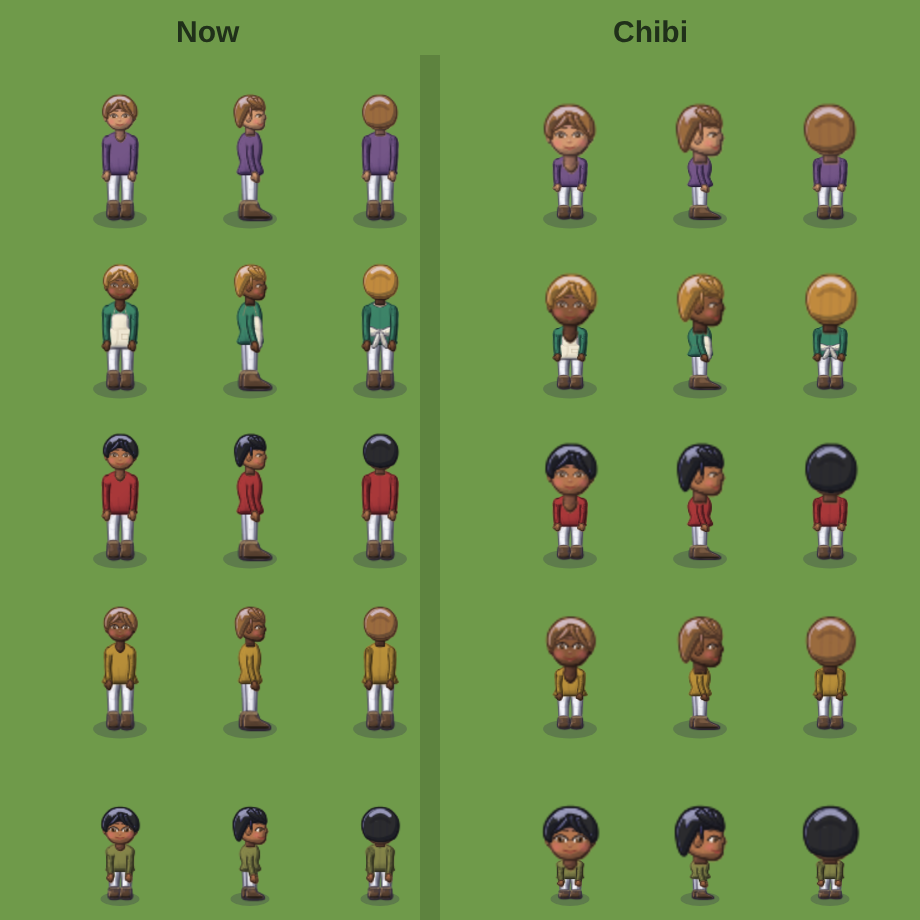
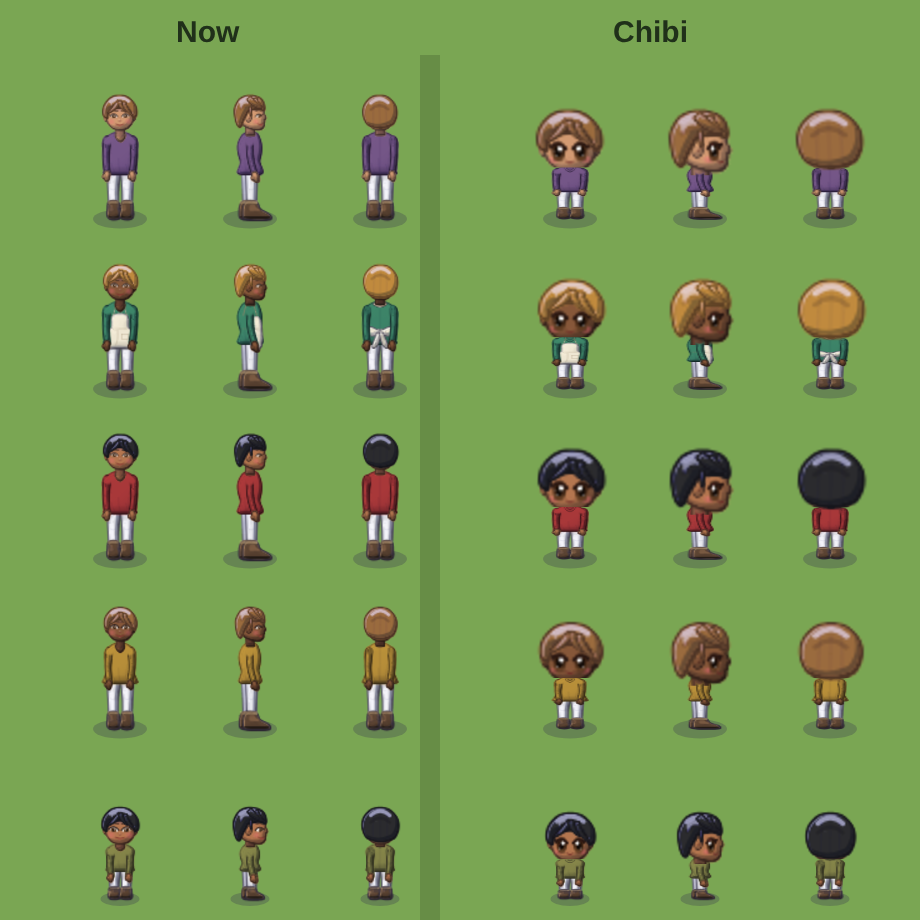
Chibi trial round 2 (still off): bigger head, shorter body, an anime face with big shiny eyes and blush, neck tucked away
Claude-Session: https://claude.ai/code/session_01TpMhZWkaxwFTz3FA8cTz2J

diff --git a/src/art/painters.ts b/src/art/painters.ts
@@ -1901,9 +1901,45 @@ function workPose(kit, dir, sp, T, id) { const G = geo(kit), K = G.K, q = K.ua /
 /* spec: age, skin, hair, hs, beard, shirt, pat, acc, pants, hat, hatCol, hatOn, robe, role, apron, pose, tool, face {dx,dy}, status, dress, hold, mourning, wave, inv */
 function dollDir(sp) { const f = sp.face || { dx: 0, dy: 1 }; return f.dy > 0 && !f.dx ? 'front' : f.dy < 0 && !f.dx ? 'back' : 'side'; }
 /* Chibi proportions (a trial): a bigger head on a shorter body, so faces read at a glance. Off by default; ART.chibi.on = true to try it. */
-const CHIBI = { on: false, head: 1.45, body: 0.72, bodyW: 0.95 };
+const CHIBI = { on: false, head: 1.75, headW: 1.08, body: 0.6, bodyW: 1.0, kidHead: 1.32, kidBody: 0.74 };
+/* the chibi face: big shiny eyes, blush, a dot of a nose and a small mouth (front and side; the back has no face) */
+function chibiFaceL(kit, dir, o: any = {}) { const [c, g]: any = frame(); if (dir === 'back') return c;
+  const L = Object.assign({}, LOOK0, o.look || {}), h = hd(kit, dir), { X, hw, hh } = h, side = dir === 'side', ink = '#2a1712', ir = IRIS[L.iris] || IRIS.brown;
+  const eye = (cx, cy, rx, ry, out) => {
+    if (o.blink) { g.strokeStyle = ink; g.lineWidth = 0.28; g.lineCap = 'round'; g.beginPath(); g.arc(cx, cy + ry * 0.35, rx * 0.95, Math.PI * 1.1, Math.PI * 1.9); g.stroke(); return; }
+    const gr = g.createLinearGradient(0, cy - ry, 0, cy + ry); gr.addColorStop(0, ir[1]); gr.addColorStop(0.45, ir[1]); gr.addColorStop(1, ir[0]);
+    g.fillStyle = gr; g.beginPath(); g.ellipse(cx, cy, rx, ry, 0, 0, TAU); g.fill();
+    g.fillStyle = '#140c08'; g.beginPath(); g.ellipse(cx + out * rx * 0.05, cy - ry * 0.02, rx * 0.5, ry * 0.58, 0, 0, TAU); g.fill();
+    g.fillStyle = '#ffffff'; g.beginPath(); g.ellipse(cx - out * rx * 0.28, cy - ry * 0.36, rx * 0.34, ry * 0.3, 0, 0, TAU); g.fill();
+    g.beginPath(); g.arc(cx + out * rx * 0.38, cy + ry * 0.42, rx * 0.15, 0, TAU); g.fill();
+    g.strokeStyle = ink; g.lineCap = 'round'; g.lineWidth = 0.42; g.beginPath(); g.moveTo(cx - out * rx * 1.08, cy - ry * 0.35); g.quadraticCurveTo(cx, cy - ry * 1.38, cx + out * rx * 1.12, cy - ry * 0.5); g.lineTo(cx + out * rx * 1.45, cy - ry * 0.8); g.stroke();   // the lash line, flicked out
+    g.lineWidth = 0.14; g.strokeStyle = 'rgba(60,30,24,.55)'; g.beginPath(); g.moveTo(cx - out * rx * 0.7, cy + ry * 0.98); g.quadraticCurveTo(cx, cy + ry * 1.12, cx + out * rx * 0.75, cy + ry * 0.9); g.stroke(); };
+  const blush = (cx, cy, rx) => { const gr = g.createRadialGradient(cx, cy, 0, cx, cy, rx); gr.addColorStop(0, 'rgba(240,110,120,.55)'); gr.addColorStop(1, 'rgba(240,110,120,0)'); g.fillStyle = gr; g.beginPath(); g.ellipse(cx, cy, rx, rx * 0.6, 0, 0, TAU); g.fill(); };
+  const brow = (cx, cy, w, out) => { g.strokeStyle = 'rgba(70,44,32,.8)'; g.lineWidth = 0.2; g.lineCap = 'round'; g.beginPath(); g.moveTo(cx - out * w, cy + 0.08); g.quadraticCurveTo(cx, cy - 0.22, cx + out * w, cy); g.stroke(); };
+  const mouth = (mx, my, w) => { const m = L.mouth;
+    if (m === 'grin' || m === 'open') { g.fillStyle = '#7a2228'; g.beginPath(); g.moveTo(mx - w, my); g.quadraticCurveTo(mx, my + 0.08, mx + w, my); g.quadraticCurveTo(mx + w * 0.7, my + w * 1.3, mx, my + w * 1.35); g.quadraticCurveTo(mx - w * 0.7, my + w * 1.3, mx - w, my); g.fill(); g.fillStyle = '#e8737a'; g.beginPath(); g.ellipse(mx, my + w * 1.0, w * 0.55, w * 0.32, 0, 0, TAU); g.fill(); return; }
+    g.strokeStyle = '#6a2a26'; g.lineWidth = 0.2; g.lineCap = 'round'; g.beginPath();
+    if (m === 'frown') { g.moveTo(mx - w, my + 0.12); g.quadraticCurveTo(mx, my - 0.12, mx + w, my + 0.12); }
+    else if (m === 'neutral' || m === 'small') { g.moveTo(mx - w, my); g.quadraticCurveTo(mx - w * 0.5, my + 0.2, mx, my); g.quadraticCurveTo(mx + w * 0.5, my + 0.2, mx + w, my); }   // a little cat mouth
+    else { g.moveTo(mx - w, my - 0.04); g.quadraticCurveTo(mx, my + w * 0.9, mx + w, my - 0.04); }
+    g.stroke(); };
+  if (!side) {
+    const ey = h.y(0.64), ex = hw * 0.45, rx = hw * 0.27, ry = hh * 0.19;
+    blush(X - hw * 0.66, h.y(0.8), hw * 0.28); blush(X + hw * 0.66, h.y(0.8), hw * 0.28);
+    eye(X - ex, ey, rx, ry, -1); eye(X + ex, ey, rx, ry, 1);
+    brow(X - ex, h.y(0.44), rx * 0.6, -1); brow(X + ex, h.y(0.44), rx * 0.6, 1);
+    g.fillStyle = 'rgba(160,86,74,.55)'; g.beginPath(); g.arc(X, h.y(0.78), 0.12, 0, TAU); g.fill();
+    mouth(X, h.y(0.86), hw * 0.13);
+  } else {
+    const ex = X + hw * 0.52, ey = h.y(0.64);
+    blush(X + hw * 0.3, h.y(0.8), hw * 0.28);
+    eye(ex, ey, hw * 0.21, hh * 0.19, 1); brow(ex, h.y(0.44), hw * 0.17, 1);
+    mouth(X + hw * 0.78, h.y(0.86), hw * 0.1);
+  }
+  return c; }
 function drawDoll(g, sp, x, y, k, T = 0) {
-  const CBX = CHIBI.on ? CHIBI.bodyW : 1, CBY = CHIBI.on ? CHIBI.body : 1;
+  const kidK = kitFor(sp) === 'child' || kitFor(sp) === 'infant', CH = CHIBI.on ? (kidK ? CHIBI.kidHead : CHIBI.head) : 1, CHW = CHIBI.on && !kidK ? CHIBI.headW : 1;
+  const CBX = CHIBI.on ? CHIBI.bodyW : 1, CBY = CHIBI.on ? (kidK ? CHIBI.kidBody : CHIBI.body) : 1;
   const kit = kitFor(sp), G = geo(kit), K = G.K, dir = dollDir(sp), f = sp.face || { dx: 0, dy: 1 }, flip = dir === 'side' && f.dx < 0;
   const pose0 = sp.pose || (sp.moving ? 'walk' : 'stand'), wf = Math.floor(T * 9) % 6;
   const hairC = sp.age >= 60 ? GREYH : sp.hair, dress = sp.dress, robe = !!sp.robe || dress === 'bride', shirt = dress === 'bride' ? '#f6f1e8' : dress === 'groom' ? '#2f2c38' : dress === 'mourn' ? '#2a2a30' : sp.shirt;
@@ -1916,8 +1952,8 @@ function drawDoll(g, sp, x, y, k, T = 0) {
   const X0 = x - DO * k, Y0 = y - DO * k, W = DF * k, key = `${kit}_${dir}`;
   const put = (cv, dy = 0, dx = 0) => g.drawImage(cv, X0 + dx * k, Y0 + dy * k, W, W);
   /* the head is its own thing: it sways a little on the neck, drops if the person slouches, and is as wide as that person's head is */
-  const putH = (cv, dy = 0, dx = 0) => { const a = (calm ? Math.sin(tt * 0.55) * 0.028 + Math.sin(tt * 1.1 + 1) * 0.01 : 0) + LK.post * 0.012, dyh = Math.max(0, -LK.post) * 0.14, px = X0 + DCX * k, py = Y0 + (G.chin + upDy) * k;
-    g.save(); g.translate(px, py); g.rotate(dir === 'side' ? a * 0.7 : a); g.scale(LK.hw / LK.bw, 1); if (CHIBI.on) g.scale(CHIBI.head / CBX, CHIBI.head / CBY); g.translate(-px, -py + dyh * k); g.drawImage(cv, X0 + dx * k, Y0 + dy * k, W, W); g.restore(); };
+  const putH = (cv, dy = 0, dx = 0, clipChin = false) => { const a = (calm ? Math.sin(tt * 0.55) * 0.028 + Math.sin(tt * 1.1 + 1) * 0.01 : 0) + LK.post * 0.012, dyh = Math.max(0, -LK.post) * 0.14, px = X0 + DCX * k, py = Y0 + (G.chin + upDy) * k;
+    g.save(); if (clipChin && CHIBI.on) { g.beginPath(); g.rect(X0 - W, Y0 - W, W * 3, py - Y0 + W + G.K.nk * (dir === 'side' ? 3.2 : 0.95) * k); g.clip(); } g.translate(px, py); g.rotate(dir === 'side' ? a * 0.7 : a); g.scale(LK.hw / LK.bw, 1); if (CHIBI.on) g.scale(CH * CHW / CBX, CH / CBY); g.translate(-px, -py + dyh * k + (CHIBI.on ? G.K.nk * 0.85 * k / CH : 0)); g.drawImage(cv, X0 + dx * k, Y0 + dy * k, W, W); g.restore(); };
   const lay = (name, color, fn, mode?) => { const kk = `${key}_${name}`; const base = L(kk, fn); return color ? tint(base, color, kk, mode) : base; };
   const gp = pose0 === 'walk' ? 'w' + fr : sit ? pose0 : 's';
   const inFrame = fn => { g.save(); g.translate(X0, Y0 + upDy * k); g.scale(k, k); fn(); g.restore(); };
@@ -1952,8 +1988,8 @@ function drawDoll(g, sp, x, y, k, T = 0) {
     if ((sp.mourning && !sp.moving) || dress === 'mourn') put(lay('mourn', null, () => clothL(kit, dir, 'stand', 0, 'mourn')), upDy);
     if (dress === 'groom' && dir !== 'back') put(lay('groom', null, () => dressL(kit, dir, 'groom')), upDy);
     if (armsEarly) armBlock();
-    putH(lay('skin', sp.skin, () => skinL(kit, dir, 'stand', 0, {})), upDy);
-    { const bl = ((T + 1.3 + (sp.id || 0) * 1.37) % 4.1) < 0.15, LK = lookOf(sp); putH(lay((bl ? 'face_blink_' : 'face_') + lookSig(LK), null, () => faceL(kit, dir, 'stand', 0, { blink: bl, look: LK })), upDy); }
+    putH(lay('skin', sp.skin, () => skinL(kit, dir, 'stand', 0, {})), upDy, 0, true);
+    { const bl = ((T + 1.3 + (sp.id || 0) * 1.37) % 4.1) < 0.15, LK = lookOf(sp); if (CHIBI.on) putH(lay((bl ? 'cface_blink_' : 'cface_') + LK.iris + LK.mouth, null, () => chibiFaceL(kit, dir, { blink: bl, look: LK })), upDy); else putH(lay((bl ? 'face_blink_' : 'face_') + lookSig(LK), null, () => faceL(kit, dir, 'stand', 0, { blink: bl, look: LK })), upDy); }
     if (sp.beard && sp.age >= 18 && dir !== 'back') putH(lay(`bd_${sp.beard}`, hairC, () => beardL(kit, dir, sp.beard), 'overlay'), upDy);
     putH(lay(`hf_${sp.hs}`, hairC, () => hairL(kit, dir, sp.hs, 'front'), 'overlay'), upDy);
     if (sp.age >= 45 && sp.age < 60 && sp.hs !== 'bald') putH(lay('grey', null, () => greyL(kit, dir)), upDy);

diff --git a/dist/index.html b/dist/index.html
@@ -7164,9 +7164,131 @@ const ART = (function() {
     const f = sp.face || { dx: 0, dy: 1 };
     return f.dy > 0 && !f.dx ? "front" : f.dy < 0 && !f.dx ? "back" : "side";
   }
-  const CHIBI = { on: false, head: 1.45, body: 0.72, bodyW: 0.95 };
+  const CHIBI = { on: false, head: 1.75, headW: 1.08, body: 0.6, bodyW: 1, kidHead: 1.32, kidBody: 0.74 };
+  function chibiFaceL(kit, dir, o = {}) {
+    const [c, g] = frame2();
+    if (dir === "back") return c;
+    const L2 = Object.assign({}, LOOK0, o.look || {}), h = hd(kit, dir), { X, hw, hh } = h, side = dir === "side", ink = "#2a1712", ir = IRIS[L2.iris] || IRIS.brown;
+    const eye = (cx, cy, rx, ry, out) => {
+      if (o.blink) {
+        g.strokeStyle = ink;
+        g.lineWidth = 0.28;
+        g.lineCap = "round";
+        g.beginPath();
+        g.arc(cx, cy + ry * 0.35, rx * 0.95, Math.PI * 1.1, Math.PI * 1.9);
+        g.stroke();
+        return;
+      }
+      const gr = g.createLinearGradient(0, cy - ry, 0, cy + ry);
+      gr.addColorStop(0, ir[1]);
+      gr.addColorStop(0.45, ir[1]);
+      gr.addColorStop(1, ir[0]);
+      g.fillStyle = gr;
+      g.beginPath();
+      g.ellipse(cx, cy, rx, ry, 0, 0, TAU);
+      g.fill();
+      g.fillStyle = "#140c08";
+      g.beginPath();
+      g.ellipse(cx + out * rx * 0.05, cy - ry * 0.02, rx * 0.5, ry * 0.58, 0, 0, TAU);
+      g.fill();
+      g.fillStyle = "#ffffff";
+      g.beginPath();
+      g.ellipse(cx - out * rx * 0.28, cy - ry * 0.36, rx * 0.34, ry * 0.3, 0, 0, TAU);
+      g.fill();
+      g.beginPath();
+      g.arc(cx + out * rx * 0.38, cy + ry * 0.42, rx * 0.15, 0, TAU);
+      g.fill();
+      g.strokeStyle = ink;
+      g.lineCap = "round";
+      g.lineWidth = 0.42;
+      g.beginPath();
+      g.moveTo(cx - out * rx * 1.08, cy - ry * 0.35);
+      g.quadraticCurveTo(cx, cy - ry * 1.38, cx + out * rx * 1.12, cy - ry * 0.5);
+      g.lineTo(cx + out * rx * 1.45, cy - ry * 0.8);
+      g.stroke();
+      g.lineWidth = 0.14;
+      g.strokeStyle = "rgba(60,30,24,.55)";
+      g.beginPath();
+      g.moveTo(cx - out * rx * 0.7, cy + ry * 0.98);
+      g.quadraticCurveTo(cx, cy + ry * 1.12, cx + out * rx * 0.75, cy + ry * 0.9);
+      g.stroke();
+    };
+    const blush = (cx, cy, rx) => {
+      const gr = g.createRadialGradient(cx, cy, 0, cx, cy, rx);
+      gr.addColorStop(0, "rgba(240,110,120,.55)");
+      gr.addColorStop(1, "rgba(240,110,120,0)");
+      g.fillStyle = gr;
+      g.beginPath();
+      g.ellipse(cx, cy, rx, rx * 0.6, 0, 0, TAU);
+      g.fill();
+    };
+    const brow = (cx, cy, w, out) => {
+      g.strokeStyle = "rgba(70,44,32,.8)";
+      g.lineWidth = 0.2;
+      g.lineCap = "round";
+      g.beginPath();
+      g.moveTo(cx - out * w, cy + 0.08);
+      g.quadraticCurveTo(cx, cy - 0.22, cx + out * w, cy);
+      g.stroke();
+    };
+    const mouth = (mx, my, w) => {
+      const m = L2.mouth;
+      if (m === "grin" || m === "open") {
+        g.fillStyle = "#7a2228";
+        g.beginPath();
+        g.moveTo(mx - w, my);
+        g.quadraticCurveTo(mx, my + 0.08, mx + w, my);
+        g.quadraticCurveTo(mx + w * 0.7, my + w * 1.3, mx, my + w * 1.35);
+        g.quadraticCurveTo(mx - w * 0.7, my + w * 1.3, mx - w, my);
+        g.fill();
+        g.fillStyle = "#e8737a";
+        g.beginPath();
+        g.ellipse(mx, my + w * 1, w * 0.55, w * 0.32, 0, 0, TAU);
+        g.fill();
+        return;
+      }
+      g.strokeStyle = "#6a2a26";
+      g.lineWidth = 0.2;
+      g.lineCap = "round";
+      g.beginPath();
+      if (m === "frown") {
+        g.moveTo(mx - w, my + 0.12);
+        g.quadraticCurveTo(mx, my - 0.12, mx + w, my + 0.12);
+      } else if (m === "neutral" || m === "small") {
+        g.moveTo(mx - w, my);
+        g.quadraticCurveTo(mx - w * 0.5, my + 0.2, mx, my);
+        g.quadraticCurveTo(mx + w * 0.5, my + 0.2, mx + w, my);
+      } else {
+        g.moveTo(mx - w, my - 0.04);
+        g.quadraticCurveTo(mx, my + w * 0.9, mx + w, my - 0.04);
+      }
+      g.stroke();
+    };
+    if (!side) {
+      const ey = h.y(0.64), ex = hw * 0.45, rx = hw * 0.27, ry = hh * 0.19;
+      blush(X - hw * 0.66, h.y(0.8), hw * 0.28);
+      blush(X + hw * 0.66, h.y(0.8), hw * 0.28);
+      eye(X - ex, ey, rx, ry, -1);
+      eye(X + ex, ey, rx, ry, 1);
+      brow(X - ex, h.y(0.44), rx * 0.6, -1);
+      brow(X + ex, h.y(0.44), rx * 0.6, 1);
+      g.fillStyle = "rgba(160,86,74,.55)";
+      g.beginPath();
+      g.arc(X, h.y(0.78), 0.12, 0, TAU);
+      g.fill();
+      mouth(X, h.y(0.86), hw * 0.13);
+    } else {
+      const ex = X + hw * 0.52, ey = h.y(0.64);
+      blush(X + hw * 0.3, h.y(0.8), hw * 0.28);
+      eye(ex, ey, hw * 0.21, hh * 0.19, 1);
+      brow(ex, h.y(0.44), hw * 0.17, 1);
+      mouth(X + hw * 0.78, h.y(0.86), hw * 0.1);
+    }
+    return c;
+  }
   function drawDoll(g, sp, x, y, k, T2 = 0) {
-    const CBX = CHIBI.on ? CHIBI.bodyW : 1, CBY = CHIBI.on ? CHIBI.body : 1;
+    const kidK = kitFor(sp) === "child" || kitFor(sp) === "infant", CH = CHIBI.on ? kidK ? CHIBI.kidHead : CHIBI.head : 1, CHW = CHIBI.on && !kidK ? CHIBI.headW : 1;
+    const CBX = CHIBI.on ? CHIBI.bodyW : 1, CBY = CHIBI.on ? kidK ? CHIBI.kidBody : CHIBI.body : 1;
     const kit = kitFor(sp), G = geo(kit), K = G.K, dir = dollDir(sp), f = sp.face || { dx: 0, dy: 1 }, flip = dir === "side" && f.dx < 0;
     const pose0 = sp.pose || (sp.moving ? "walk" : "stand"), wf = Math.floor(T2 * 9) % 6;
     const hairC = sp.age >= 60 ? GREYH : sp.hair, dress = sp.dress, robe = !!sp.robe || dress === "bride", shirt = dress === "bride" ? "#f6f1e8" : dress === "groom" ? "#2f2c38" : dress === "mourn" ? "#2a2a30" : sp.shirt;
@@ -7178,14 +7300,19 @@ const ART = (function() {
     const upDy = (pose0 === "sit" ? G.sit : pose0 === "kneel" ? G.kneel : rig.dip) + breath, lean = wp ? wp.lean : 0;
     const X0 = x - DO * k, Y0 = y - DO * k, W2 = DF * k, key = `${kit}_${dir}`;
     const put = (cv, dy = 0, dx = 0) => g.drawImage(cv, X0 + dx * k, Y0 + dy * k, W2, W2);
-    const putH = (cv, dy = 0, dx = 0) => {
+    const putH = (cv, dy = 0, dx = 0, clipChin = false) => {
       const a = (calm ? Math.sin(tt * 0.55) * 0.028 + Math.sin(tt * 1.1 + 1) * 0.01 : 0) + LK.post * 0.012, dyh = Math.max(0, -LK.post) * 0.14, px = X0 + DCX * k, py = Y0 + (G.chin + upDy) * k;
       g.save();
+      if (clipChin && CHIBI.on) {
+        g.beginPath();
+        g.rect(X0 - W2, Y0 - W2, W2 * 3, py - Y0 + W2 + G.K.nk * (dir === "side" ? 3.2 : 0.95) * k);
+        g.clip();
+      }
       g.translate(px, py);
       g.rotate(dir === "side" ? a * 0.7 : a);
       g.scale(LK.hw / LK.bw, 1);
-      if (CHIBI.on) g.scale(CHIBI.head / CBX, CHIBI.head / CBY);
-      g.translate(-px, -py + dyh * k);
+      if (CHIBI.on) g.scale(CH * CHW / CBX, CH / CBY);
+      g.translate(-px, -py + dyh * k + (CHIBI.on ? G.K.nk * 0.85 * k / CH : 0));
       g.drawImage(cv, X0 + dx * k, Y0 + dy * k, W2, W2);
       g.restore();
     };
@@ -7274,10 +7401,11 @@ const ART = (function() {
       if (sp.mourning && !sp.moving || dress === "mourn") put(lay("mourn", null, () => clothL(kit, dir, "stand", 0, "mourn")), upDy);
       if (dress === "groom" && dir !== "back") put(lay("groom", null, () => dressL(kit, dir, "groom")), upDy);
       if (armsEarly) armBlock();
-      putH(lay("skin", sp.skin, () => skinL(kit, dir, "stand", 0, {})), upDy);
+      putH(lay("skin", sp.skin, () => skinL(kit, dir, "stand", 0, {})), upDy, 0, true);
       {
         const bl = (T2 + 1.3 + (sp.id || 0) * 1.37) % 4.1 < 0.15, LK2 = lookOf(sp);
-        putH(lay((bl ? "face_blink_" : "face_") + lookSig(LK2), null, () => faceL(kit, dir, "stand", 0, { blink: bl, look: LK2 })), upDy);
+        if (CHIBI.on) putH(lay((bl ? "cface_blink_" : "cface_") + LK2.iris + LK2.mouth, null, () => chibiFaceL(kit, dir, { blink: bl, look: LK2 })), upDy);
+        else putH(lay((bl ? "face_blink_" : "face_") + lookSig(LK2), null, () => faceL(kit, dir, "stand", 0, { blink: bl, look: LK2 })), upDy);
       }
       if (sp.beard && sp.age >= 18 && dir !== "back") putH(lay(`bd_${sp.beard}`, hairC, () => beardL(kit, dir, sp.beard), "overlay"), upDy);
       putH(lay(`hf_${sp.hs}`, hairC, () => hairL(kit, dir, sp.hs, "front"), "overlay"), upDy);
